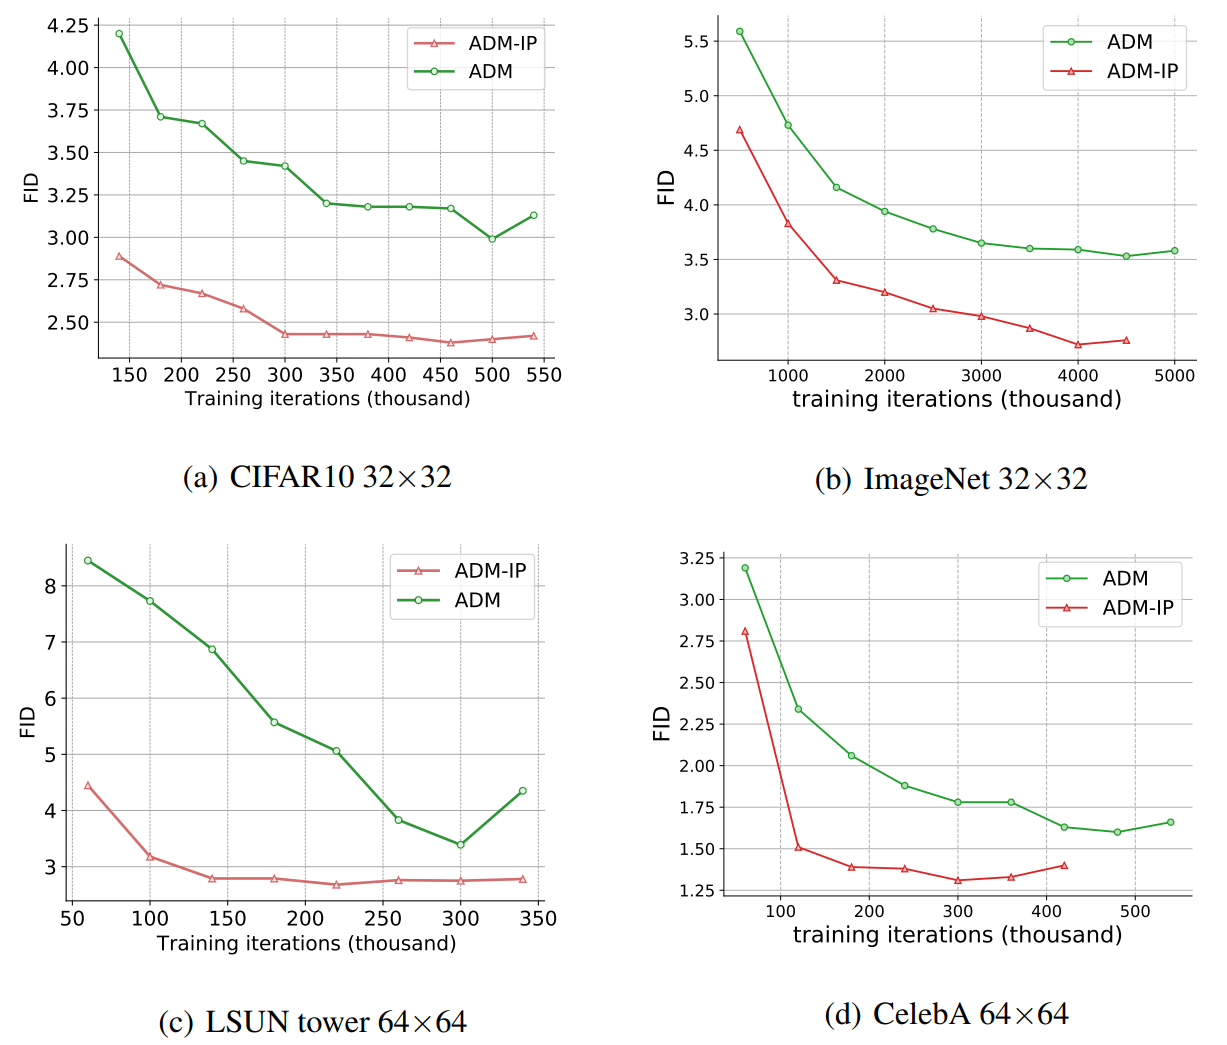
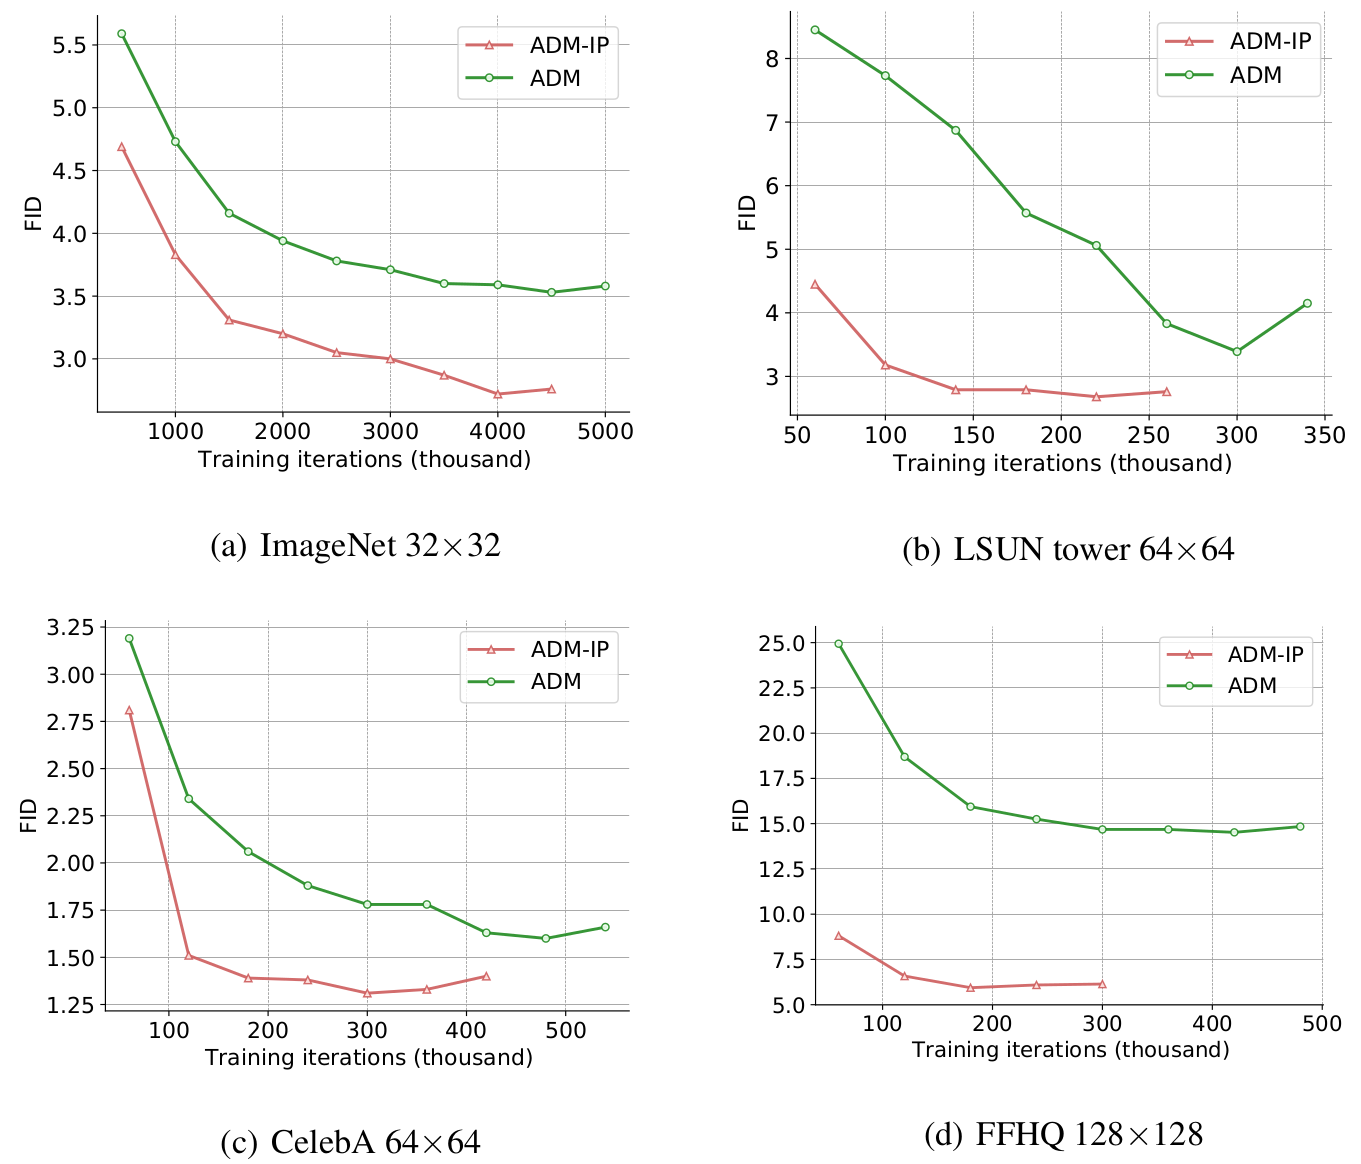
update README.md

diff --git a/datasets/results_analysis.py b/datasets/results_analysis.py
@@ -1,0 +1,268 @@
+import os
+import numpy as np
+from PIL import Image
+import matplotlib.pyplot as plt
+from scipy import stats
+
+
+def show_images():
+    x = np.load('/m100_work/FF4_Axyon/DDPM/guided_diffusion/evaluations/celeba_noise_0.1_320k_900steps_50000_samples.npz')['arr_0']
+    plt.figure(figsize=(20, 20))
+    for i in range(36):  # 8*8 or 6*6
+        img = x[i+64, :, :, :]
+        plt.subplot(6, 6, i + 1)
+        plt.imshow(img)
+        plt.axis('off')
+    # plt.savefig('./imgnet32_samples_4.jpg')
+    fig = plt.gcf()
+    fig.tight_layout()
+    plt.show()
+
+
+def gaussian_histogram(t):
+    x = np.load('/m100_work/FF4_Axyon/DDPM/guided_diffusion/imagenet32_base_gaussian_error/gaussian_error_xstart_all_pixels.npz')['arr_0']
+    print(f"array shape: {x.shape}" )  # (100, batch, 3, 32, 32)
+
+    data = x[t, :, 2, 16, 16]
+    mean = np.mean(data)
+    std = np.std(data)
+
+    plt.figure()
+    plt.hist(data, bins=40, color=(31/255, 119/255, 180/255))
+    plt.xlabel("$e_{t}^{i}$", size=14)
+    plt.ylabel("frequency", size=14)
+    plt.xticks(size=14)
+    plt.yticks(size=14)
+
+    # plt.title(f'prediction error at timestep {t+1}')
+    # plt.text(0, 200, f"mean={mean: .6f}", horizontalalignment="center", color=(255/255, 127/255, 14/255), size=14)
+    # plt.text(0, 100, f"std={std: .4f}", horizontalalignment="center", color=(255/255, 127/255, 14/255), size=14)
+    fig = plt.gcf()
+    fig.tight_layout()
+    plt.show()
+
+
+def shapiro_wilk_test(t):
+    x = np.load('/m100_work/FF4_Axyon/DDPM/guided_diffusion/imagenet32_base_gaussian_error/gaussian_error_xstart_all_pixels.npz')['arr_0']
+    print(f"array shape: {x.shape}")  # (100, batch, 3, 32, 32)
+
+    time, batch, channel, height, width = x.shape[0], x.shape[1], x.shape[2], x.shape[3], x.shape[4]
+
+    # use the expectation of mean and std to do normalization
+    reject_rates = []
+    for t in range(0, time):
+        print(f"compute mean and std for timestep: {t}: ")
+        means = []
+        stds = []
+        for c in range(0, channel):
+            for h in range (0, height):
+                for w in range(0, width):
+                    data = x[t, :, c, h, w]
+                    means.append(np.mean(data))
+                    stds.append(np.std(data))
+        mean = np.array(means).mean()
+        std = np.array(stds).mean()
+        print(f"mean: {mean}")
+        print(f"std: {std}")
+
+        cnt = 0
+        reject_cnt = 0
+        for c in range(0, channel):
+            for h in range (0, height):
+                for w in range(0, width):
+                    data = x[t, np.random.choice(batch, size=100, replace=False), c, h, w]
+                    norm_data = (data - mean) / std
+                    # results = stats.kstest(rvs=norm_data, cdf='norm', alternative='two-sided')
+                    results = stats.shapiro(norm_data)
+                    cnt += 1
+                    if results.pvalue < 0.05:
+                        reject_cnt += 1
+                        # print(results.pvalue)
+        reject_rate = reject_cnt / cnt
+        reject_rates.append(reject_rate)
+        print(f"reject rate: {reject_cnt} / {cnt} = {reject_rate}")
+
+    print(f"average raject rate: {np.array(reject_rates).mean()}")
+
+
+def gaussian_error_std_for_each_pixel():
+    x_base = np.load('/m100_work/FF4_Axyon/DDPM/guided_diffusion/imagenet32_base_gaussian_error/gaussian_error_xstart_all_pixels.npz')['arr_0']
+    print(f"array shape: {x_base.shape}" )  # (100, batch, 3, 32, 32)
+
+    data = x_base[90]  # (batch, 3, 32, 32)
+    print(f"data shape: {data.shape}")
+    channels, width, height = x_base.shape[2], x_base.shape[3], x_base.shape[4]
+    std_by_pixel = []
+    for i in range(0, channels):
+        for j in range(0, width):
+            for k in range(0, height):
+                std = np.std(data[:, i, j, k], axis=0)  # compute std of the gaussian error along the batch
+                std_by_pixel.append(std)
+    print(f"number of pixels: {len(std_by_pixel)}")
+    avg_std = np.array(std_by_pixel).mean()
+    print(f"std mean of all pixels: {avg_std}")
+    # print(f"mean: {np.array(std_pixel).mean()}")
+
+    x = [i for i in range(1, len(std_by_pixel)+1)]
+    plt.plot(x, std_by_pixel, 'r--', label='std at each pixel')
+    plt.legend()
+    plt.xlabel('pixel')
+    plt.ylabel('std')
+    plt.show()
+
+
+def gaussian_error_std_along_timesteps():
+    x_base = np.load('/m100_work/FF4_Axyon/DDPM/guided_diffusion/imagenet32_base_gaussian_error/gaussian_error_xstart_all_pixels.npz')['arr_0']
+    print(f"array shape: {x_base.shape}" )  # (100, batch, 3, 32, 32)
+
+    timesteps, channels, width, height = x_base.shape[0], x_base.shape[2], x_base.shape[3], x_base.shape[4]
+    std_along_t_1 = []
+    std_over_pixels = []
+    for t in range(0, timesteps):
+        data = x_base[t]
+        print(f"data shape: {data.shape}")
+        for i in range(0, channels):
+            for j in range(0, width):
+                for k in range(0, height):
+                    std_pixel = np.std(data[:, i, j, k], axis=0)
+                    std_over_pixels.append(std_pixel)
+        std_of_each_t = np.array(std_over_pixels).mean()
+        print(f"std mean of all pixels: {std_of_each_t} at timestep {t}" )
+        std_along_t_1.append(std_of_each_t)
+        std_over_pixels = []
+    print(f"std mean of all t: {np.array(std_along_t_1).mean()}")
+
+
+    x_base = np.load('/m100_work/FF4_Axyon/DDPM/guided_diffusion/cifar_base_gaussian_error/gaussian_error_xstart_all_pixels.npz')['arr_0']
+    print(f"array shape: {x_base.shape}")  # (100, batch, 3, 32, 32)
+
+    timesteps, channels, width, height = x_base.shape[0], x_base.shape[2], x_base.shape[3], x_base.shape[4]
+    std_along_t_2 = []
+    std_over_pixels_2 = []
+    for t in range(0, timesteps):
+        data = x_base[t]
+        print(f"data shape: {data.shape}")
+        for i in range(0, channels):
+            for j in range(0, width):
+                for k in range(0, height):
+                    std_pixel = np.std(data[:, i, j, k], axis=0)
+                    std_over_pixels_2.append(std_pixel)
+        std_of_each_t = np.array(std_over_pixels_2).mean()
+        print(f"std mean of all pixels: {std_of_each_t} at timestep {t}")
+        std_along_t_2.append(std_of_each_t)
+        std_over_pixels_2 = []
+    print(f"std mean of all t: {np.array(std_along_t_2).mean()}")
+
+
+    x = [i for i in range(10, 1001, 10)]
+    print(x)
+    print(f"imagenet: {std_along_t_1}")
+    print(f"cifar10: {std_along_t_2}")
+    plt.plot(x, std_along_t_2, color=(31 / 255, 119 / 255, 180 / 255), label='Cifar10 32x32')
+    plt.plot(x, std_along_t_1, color=(255/255, 127/255, 14/255), label='ImageNet 32x32')
+    plt.legend(prop = {'size':16})
+    plt.xlabel('timesteps', size=16)
+    plt.ylabel('$\\nu_{t}$', size=16)
+    plt.xticks(size=16)
+    plt.yticks(size=16)
+    fig = plt.gcf()
+    fig.tight_layout()
+    plt.show()
+    # plt.savefig('gaussian_error.eps', dpi=600, format='eps')
+
+
+def FID_results():
+    # # ImageNet
+    # x = [500, 1000, 1500, 2000, 2500, 3000, 3500, 4000, 4500, 5000]
+    # ADM =    [5.59, 4.73, 4.16, 3.94, 3.78, 3.71, 3.6,  3.59, 3.53, 3.58]
+    # ADM_IP = [4.69, 3.83, 3.31, 3.2,  3.05, 3,    2.87, 2.72, 2.76, None]
+
+    # # LSUN tower
+    # x = [60, 100, 140, 180, 220, 260, 300, 340]
+    # ADM =    [8.45, 7.73, 6.87, 5.57, 5.06, 3.83, 3.39, 4.15]
+    # ADM_IP = [4.45, 3.18, 2.79, 2.79, 2.68, 2.76, None, None]
+
+    # # CelebA
+    # x = [60, 120, 180, 240, 300, 360, 420, 480, 540]
+    # ADM =    [3.19, 2.34, 2.06, 1.88, 1.78, 1.78, 1.63, 1.60, 1.66]
+    # ADM_IP = [2.81, 1.51, 1.39, 1.38, 1.31, 1.33, 1.40, None, None]
+
+    # FFHQ
+    x = [60, 120, 180, 240, 300, 360, 420, 480]
+    ADM =    [24.94, 18.69, 15.94, 15.25, 14.68, 14.68, 14.52, 14.84]
+    ADM_IP = [8.81,  6.58,  5.94,  6.09,  6.14,  None,  None,  None]
+
+    # Plot the data
+    plt.plot(x, ADM_IP, linewidth=2, label='ADM-IP', color='indianred', alpha=0.9, marker='^', markersize=5, linestyle='-',
+            markerfacecolor='mistyrose', markeredgecolor='indianred')
+    plt.plot(x, ADM, linewidth=2, label='ADM', color='forestgreen', alpha=0.9, marker='o', markersize=5, linestyle='-',
+            markerfacecolor='honeydew', markeredgecolor='forestgreen')
+
+    # Customize the grid
+    plt.grid(axis='x', linestyle='--', linewidth=0.5, color='darkgray')
+    plt.grid(axis='y', linestyle='-', linewidth=0.5, color='darkgray')
+
+    # remove right and top edges
+    plt.gca().spines['right'].set_visible(False)
+    plt.gca().spines['top'].set_visible(False)
+
+    plt.ylabel("FID", fontsize=15)
+    plt.xlabel("Training iterations (thousand)", fontsize=15)
+    plt.xticks(fontsize=15)
+    plt.yticks(fontsize=15)
+    plt.legend(loc='upper right', fontsize=15)
+
+    # Show the plot
+    plt.savefig('ffhq.pdf', bbox_inches='tight')
+    plt.show()
+
+
+def FID_cifar():
+    # CIFAR10
+    x = [140, 180, 220, 260, 300, 340, 380, 420, 460, 500, 540]
+    ADM =        [4.42, 3.92, 3.86, 3.7,  3.54, 3.48, 3.41, 3.41, 3.43, 3.37, 3.44]
+    ADM_IP_005 = [3.94, 3.57, 3.46, 3.3,  3.25, 3.25, 3.18, 3.05, 3.03, 3.05, None]
+    ADM_IP_010 = [3.44, 3.16, 3.03, 2.98, 2.91, 2.85, 2.84, 2.79, 2.7,  2.74, None]
+    ADM_IP_020 = [3.65, 3.43, 3.27, 3.16, 3.05, 2.98, 2.94, 2.89, 2.82, 2.88, None]
+
+
+    # Plot the data
+    plt.plot(x, ADM, linewidth=2, label='ADM', color='forestgreen', alpha=0.9, marker='o', markersize=5, linestyle='-',
+            markerfacecolor='honeydew', markeredgecolor='forestgreen')
+    plt.plot(x, ADM_IP_005, linewidth=2, label='ADM-IP ($\gamma=$0.05)', color='indianred', alpha=0.4, marker='x', markersize=5,
+             linestyle='-',
+             markerfacecolor='mistyrose', markeredgecolor='indianred')
+    plt.plot(x, ADM_IP_010, linewidth=2, label='ADM-IP ($\gamma=$0.1)', color='indianred', alpha=1.0, marker='^', markersize=5,
+             linestyle='-',
+             markerfacecolor='mistyrose', markeredgecolor='indianred')
+    plt.plot(x, ADM_IP_020, linewidth=2, label='ADM-IP ($\gamma=$0.2)', color='indianred', alpha=0.4, marker='s', markersize=5,
+             linestyle='-',
+             markerfacecolor='mistyrose', markeredgecolor='indianred')
+
+    # Customize the grid
+    plt.grid(axis='x', linestyle='--', linewidth=0.5, color='darkgray')
+    plt.grid(axis='y', linestyle='-', linewidth=0.5, color='darkgray')
+
+    # remove right and top edges
+    plt.gca().spines['right'].set_visible(False)
+    plt.gca().spines['top'].set_visible(False)
+
+    plt.ylabel("FID", fontsize=15)
+    plt.xlabel("Training iterations (thousand)", fontsize=15)
+    plt.xticks(fontsize=15)
+    plt.yticks(fontsize=15)
+    plt.legend(loc='upper right', fontsize=15)
+
+    # Show the plot
+    plt.savefig('cifar10.pdf', bbox_inches='tight')
+    plt.show()
+
+
+if __name__ == '__main__':
+    # show_images()
+    # gaussian_histogram(60)
+    # shapiro_wilk_test(1)
+    # gaussian_error_std_for_each_pixel()
+    # gaussian_error_std_along_timesteps()
+    FID_results()
+    # FID_cifar()

diff --git a/datasets/cifar10.py b/datasets/cifar10.py
@@ -1,8 +1,9 @@
 import os
 import tempfile
-
+import numpy as  np
 import torchvision
 from tqdm.auto import tqdm
+import cv2
 
 CLASSES = (
     "plane",
@@ -18,7 +19,7 @@ CLASSES = (
 )
 
 
-def download_cifar10():
+def main():
     idx = 0
     for split in ["train", "test"]:
         out_dir = f"cifar_{split}"
@@ -32,7 +33,7 @@ def download_cifar10():
                 root=tmp_dir, train=split == "train", download=True
             )
 
-        print("dumping images into current dir...")
+        print("dumping images...")
         os.mkdir(out_dir)
         for i in tqdm(range(len(dataset))):
             image, label = dataset[i]
@@ -41,5 +42,19 @@ def download_cifar10():
             image.save(filename)
 
 
+def imgs_to_npz():
+    npz = []
+
+    for img in os.listdir("./cifar_train"):
+        img_arr = cv2.imread("./cifar_train/" + img)
+        img_arr = cv2.cvtColor(img_arr, cv2.COLOR_BGR2RGB)  # cv2默认为 bgr 顺序
+        npz.append(img_arr)
+
+    output_npz = np.array(npz)
+    np.savez('cifar10_train.npz', output_npz)
+    print(f"{output_npz.shape} size array saved into cifar10_train.npz")  # (50000, 32, 32, 3)
+
+
 if __name__ == "__main__":
-    download_cifar10()
+    main()
+    # imgs_to_npz()

diff --git a/datasets/ffhq128_npz.py b/datasets/ffhq128_npz.py
@@ -8,19 +8,18 @@ import cv2
 def imgs_to_npz():
     npz = []
 
-    for img in os.listdir("./img_align_celeba"):
-        img_arr = cv2.imread("./img_align_celeba/" + img)
+    for img in os.listdir("./thumbnails128x128"):
+        img_arr = cv2.imread("./thumbnails128x128/" + img)
         img_arr = cv2.cvtColor(img_arr, cv2.COLOR_BGR2RGB)  # cv2默认为 bgr 顺序
-        resized_img = cv2.resize(img_arr, (64, 64))
-        npz.append(resized_img)
+        npz.append(img_arr)
 
     output_npz = np.array(npz)
-    np.savez('celeba64_train.npz', output_npz)
-    print(f"{output_npz.shape} size array saved into celeba64_train.npz")  # (202599, 64, 64, 3)
+    np.savez('ffhqq128_train.npz', output_npz)
+    print(f"{output_npz.shape} size array saved into ffhqq128_train.npz")  # (70000, 128, 128, 3)
 
 
 def show_images():
-    x = np.load('./celeba64/celeba64_train.npz')['arr_0']
+    x = np.load('./ffhqq128_train.npz')['arr_0']
     plt.figure(figsize=(10, 10))
     for i in range(16):
         img = x[i, :, :, :]
@@ -32,5 +31,5 @@ def show_images():
 
 
 if __name__ == '__main__':
-    # imgs_to_npz()
-    show_images()
+    imgs_to_npz()
+    # show_images()

diff --git a/README.md b/README.md
@@ -8,10 +8,6 @@ This is the codebase for the ICML 2023 paper [Input Perturbation Reduces Exposur
 
 This repository is heavily based on [openai/guided-diffusion](https://github.com/openai/guided-diffusion), with training modification of input perturbation.
 
-Coming soon
-- [√] FFHQ 128x128
-- [ ] update arXiv paper
-
 ## Simple to implement Input Perturbation in diffusion models
 Our proposed __Input Perturbation__  is an extremely simple __plug-in__ method for general diffusion models.
 The implementation of Input Perturbation is just two lines of code.
@@ -20,7 +16,7 @@ For instance, based on [guided-diffusion](https://github.com/openai/guided-diffu
 the only code modifications are in the script [guided_diffusion/gaussian_diffusion.py](https://github.com/forever208/DDPM-IP/blob/DDPM-IP/guided_diffusion/gaussian_diffusion.py), in line 765-766:
 
 ```python
-new_noise = noise + gamma * th.randn_like(noise)  # gamma=0.15 for CIFAR10, gamma=0.1 for other datasets
+new_noise = noise + gamma * th.randn_like(noise)  # gamma=0.1
 x_t = self.q_sample(x_start, t, noise=new_noise)
 ```
 NOTE THAT: change the parameter `GPUS_PER_NODE = 4` in the script `dist_util.py` according to your GPU cluster configuration.
